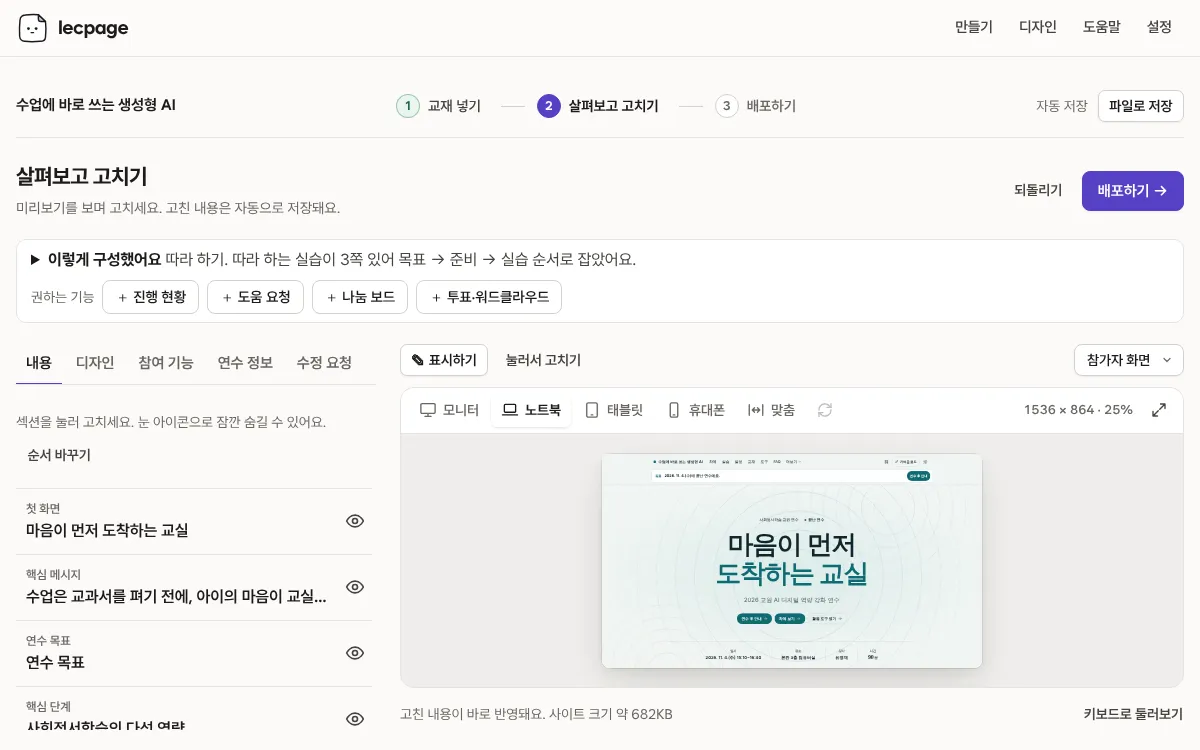
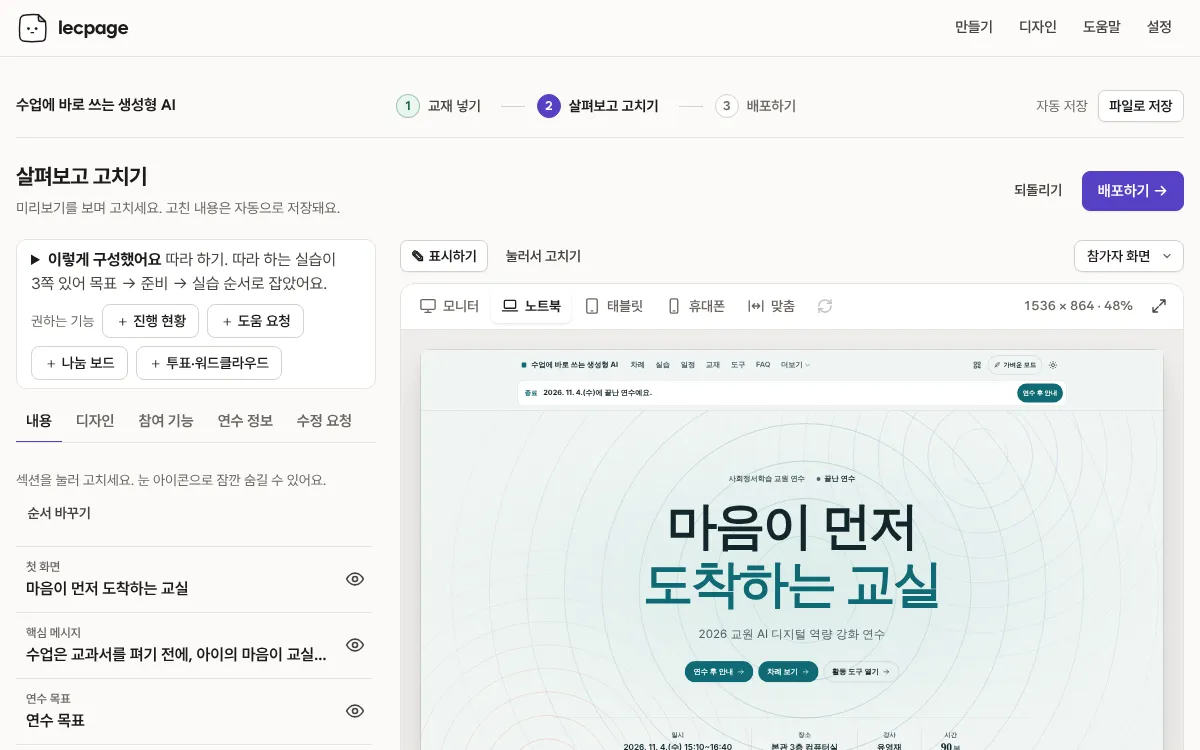
닫기(✕) 붙박이는 왼쪽 칸 띠에만, 휴대폰 아래 줄의 코치 꼬리표는 단추 위 가장자리에, 도움말 고치기 그림 다시 찍기
- 결과 띠의 ✕를 모든 폭에서 오른쪽 위에 붙였더니 768~1024px에서 옆 단추와 글 중심이 10px 어긋나 넓은 화면 왼쪽 칸에서만 붙박이로
- 체험 1·3단계(휴대폰): 화면 아래에 붙은 단추의 '여기를 눌러요'가 단추 아래(화면 밖)에 떠 보이지 않던 것을 단추 위 가장자리로
- 도움말 그림(edit·live·review, 1200×750): 바뀐 넓은 화면 배치로 다시 찍음(미리보기 25% → 48%)

Claude-Session: https://claude.ai/code/session_01HqP3sDeio7vDaD8gojGxBH

diff --git a/app/src/styles/app.css b/app/src/styles/app.css
@@ -696,10 +696,6 @@ dialog.join-big::backdrop{background:var(--bg)}
 .ai-job.ok{background:var(--mint);color:var(--mint-ink);border-color:color-mix(in srgb,var(--mint-ink) 18%,transparent)}
 .ai-job.bad{background:var(--peach);color:var(--peach-ink);border-color:color-mix(in srgb,var(--peach-ink) 18%,transparent)}
 .ai-job-t{display:grid;gap:1px;flex:1;min-width:min(100%,220px)}
-/* 닫기(✕)는 띠 오른쪽 위에 붙박이(단추가 줄을 넘겨도 가운데 떠 있지 않게). 아래 되돌린 곳 줄은 띠 끝까지 */
-.ai-job:has(>.icon-btn){position:relative;padding-right:48px}
-.ai-job>.icon-btn{position:absolute;top:6px;right:6px}
-.ai-job:has(>.icon-btn)>.guard-note{margin-right:-34px}
 .ai-job-t b{font-weight:650;font-size:.95rem}
 .ai-job-t small{font-size:.84rem;opacity:.86;font-variant-numeric:tabular-nums}
 .ai-job-dot{width:10px;height:10px;border-radius:50%;background:var(--accent);flex:none;animation:ai-pulse 1.2s ease-in-out infinite}
@@ -748,6 +744,10 @@ details>summary{cursor:pointer}
   .stage-2 .step-head h1{font-size:1.35rem}
   .stage-2 .step-head p{font-size:.9rem}
   .stage-2 .wiz-main>:is(.ai-job,.structure-note){grid-column:1;margin-bottom:12px}
+  /* 왼쪽 칸의 띠: 글 아래 줄에 단추, 닫기(✕)는 띠 오른쪽 위(첫 줄 글과 같은 높이). 아래 되돌린 곳 줄은 띠 끝까지 */
+  .stage-2 .wiz-main>.ai-job:has(>.icon-btn){position:relative;padding-right:48px}
+  .stage-2 .wiz-main>.ai-job>.icon-btn{position:absolute;top:6px;right:6px}
+  .stage-2 .wiz-main>.ai-job:has(>.icon-btn)>.guard-note{margin-right:-34px}
   .stage-2 .wiz-main>.ai-job>.ai-job-t{min-width:calc(100% - 24px)}
   .stage-2 .wiz-main>.ai-job>.ai-job-t+.btn-quiet{margin-left:calc(-1 * var(--px))}
   .stage-2 .workspace{display:contents}
@@ -781,6 +781,7 @@ details>summary{cursor:pointer}
 /* 휴대폰: 만들기 버튼을 아래에 붙여 둠 */
 @media (max-width: 760px){
   .make-bar{position:sticky;bottom:0;z-index:5;padding:12px 0 calc(12px + env(safe-area-inset-bottom,0px));background:linear-gradient(transparent,var(--bg) 30%)}
+  .make-bar [data-coach]::after{top:auto;bottom:calc(100% - 12px)} /* 화면 아래에 붙은 줄: 코치 꼬리표를 단추 위 가장자리에(아래로 두면 화면 밖) */
 }
 @media (max-width: 560px){
   .top-in{gap:8px}
